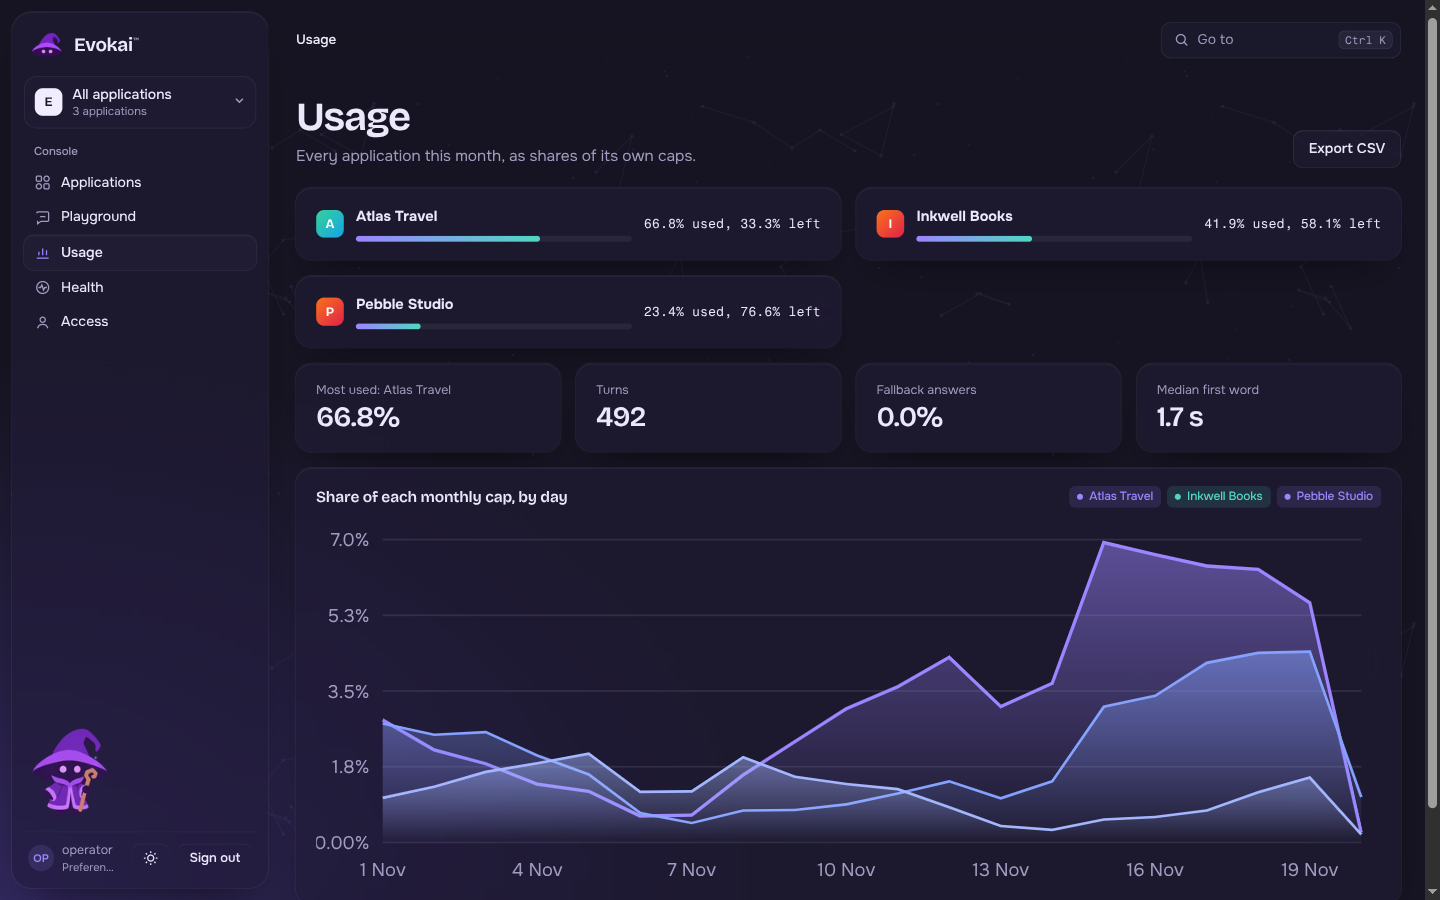
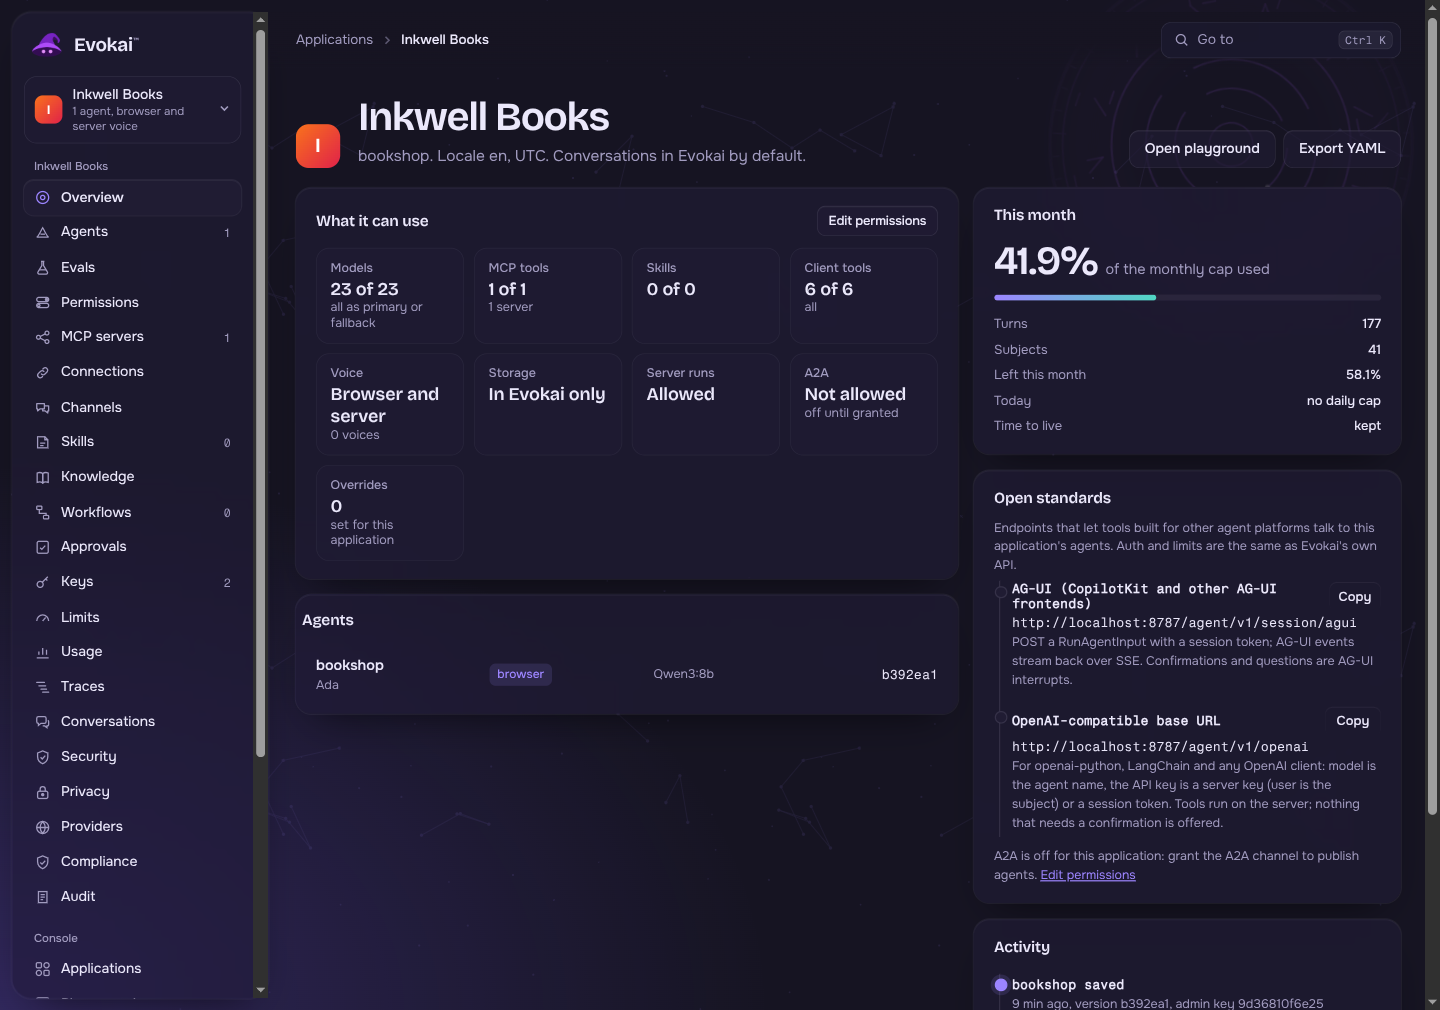
README: any model, cloud or self-hosted, and governance for companies; the application overview as the first picture

diff --git a/README.md b/README.md
@@ -4,8 +4,9 @@
 
 # Evokai™
 
-**Summon AI agents into any app.**<br/>
-Any model provider, your app's tools over MCP, skills and voice, always acting as the signed-in user, within budgets.
+**Summon AI agents into any app, with the governance a company needs.**<br/>
+Any model, from the big clouds to your own servers; your app's tools over MCP, skills and voice; always acting as the
+signed-in user, within budgets, with an audit trail.
 
 [![CI](https://img.shields.io/github/actions/workflow/status/Giordyfish/evokai/ci.yml?branch=main&style=flat-square&label=CI)](https://github.com/Giordyfish/evokai/actions/workflows/ci.yml)
 [![Status: experimental](https://img.shields.io/badge/status-experimental-f59e0b?style=flat-square)](#status)
@@ -16,7 +17,7 @@ Any model provider, your app's tools over MCP, skills and voice, always acting a
 
 </div>
 
-<p align="center"><img src="docs/assets/screenshot-console.png" alt="The Evokai console in the dark theme: three applications and the share of each monthly cap they used, day by day" width="860" /></p>
+<p align="center"><img src="docs/assets/screenshot-console.png" alt="The Evokai console in the dark theme: an application's overview with what its agents may use, its share of the monthly cap and its open standard endpoints" width="860" /></p>
 
 Your backend mints a short session token for the signed-in user; the page talks to the agent with it:
 
@@ -48,6 +49,22 @@ Evokai is that layer, written once. An application connects with a key, describe
 its users talk to them through a small headless client. The application keeps its identity, its data and its
 interface; Evokai brings the agents.
 
+### Any model, cloud or self-hosted
+
+One allow-list for every provider [pydantic-ai](https://ai.pydantic.dev) speaks: Amazon Bedrock, Azure OpenAI,
+Google Vertex AI, OpenAI, Anthropic, Mistral, Groq, OpenRouter and European clouds (Scaleway, OVHcloud, IONOS,
+STACKIT), or models on your own hardware through Ollama, vLLM, LM Studio or any OpenAI-compatible server. Each agent
+has an ordered fallback chain, so a provider without capacity, or one a policy rules out, is skipped rather than
+failing the turn. Changing model is a line of configuration, not a new integration.
+
+### Governance for companies
+
+Bringing AI into a company is less about the model than about control. In Evokai every application is granted what
+its agents may use (models, tools, skills, voice, channels, code execution), each with its own keys and caps;
+people only ever act as themselves; tools that change data wait for a confirmation; every console change lands in an
+audit log, behind single sign-on with viewer, operator and owner roles. A security layer screens prompts, tool output
+and answers (mapped to the OWASP LLM Top 10), and evals catch a regression before a new agent version goes live.
+
 ### Made for AI products in Europe
 
 Evokai is meant to enable AI products, and it pays particular attention to the European regulatory space. Each
@@ -67,8 +84,8 @@ conditions of any kind, and without liability, as stated in sections 7 and 8 of 
 
 ## Features
 
-- **Any model**: Bedrock, OpenAI, Azure, Mistral, Ollama and more through [pydantic-ai](https://ai.pydantic.dev),
-  behind an allow-list, with fallbacks when a model has no capacity.
+- **Any model, cloud or self-hosted**: Bedrock, Azure, Vertex, OpenAI, Anthropic, Mistral, European clouds, or your
+  own servers (Ollama, vLLM, LM Studio), behind an allow-list, with fallbacks when a model has no capacity.
 - **Your tools over MCP**, called as the signed-in user; tools that change data wait for the user's confirmation.
 - **Skills, knowledge bases and ready connectors** (SQL, REST from OpenAPI, Google Drive, SharePoint, IMAP).
 - **Voice**: dictation, conversation and barge-in, in the browser or on the server with [Pipecat](https://pipecat.ai).
